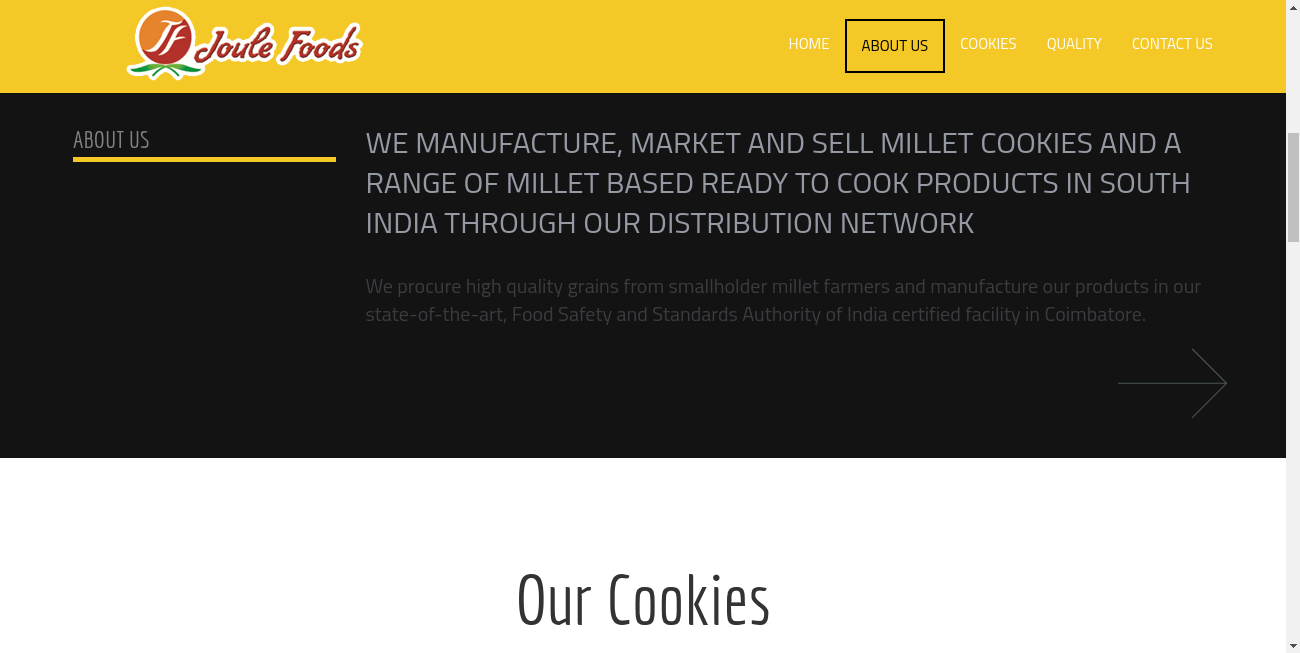
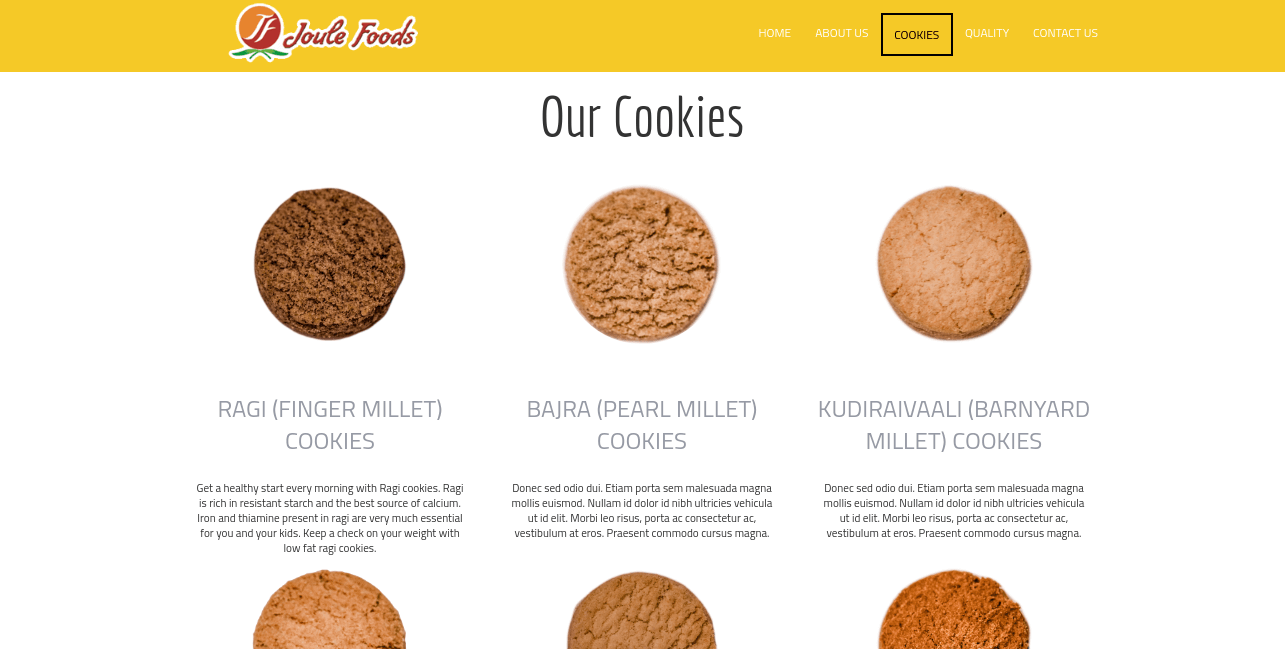
Added new images for cookie portfolio.

diff --git a/static/templates/index.html b/static/templates/index.html
@@ -10,9 +10,9 @@
    <header>
         <div class="container">
             <div class="intro-stats hidden-sm hidden-xs wow slideInDown">
-                <p class="stats-date">July 2017</p>
+                <p class="stats-date">Aug 2017</p>
                 <p class="stats-price">$40/hr</p>
-                <p class="more-stats">Enter Random Stats</p>
+                <p class="more-stats">Limited Edition Offer</p>
             </div>
             <div class="intro-text">
                 <div class="intro-lead-in wow bounceInDown" data-wow-delay="2.5s" data-wow-duration="2s">
@@ -63,7 +63,7 @@
                                         <i class="devicon-html5-plain-wordmark"></i>
                                         <i class="devicon-css3-plain-wordmark"></i>
                                         <i class="devicon-jquery-plain-wordmark"></i>
-                                        <i class="devicon-backbonejs-plain-wordmark"></i>
+                                        <i class="devicon-backiconbonejs-plain-wordmark"></i>
                                     </p>
                                     <p>
                                         <i class="devicon-python-plain-wordmark"></i>
@@ -111,7 +111,7 @@
                         </div>
 
                          <div class="team-bottom col-sm-12 col-md-12">
-                           <div class="stat-card team-stat-card col-sm-5 col-md-5 wow flipInX" data-wow-duration="2s">
+                           <div class="stat-card stat-card-green team-stat-card col-sm-5 col-md-5 wow flipInX" data-wow-duration="2s">
                                 <div class="stat-title">
                                     Vital Stats
                                 </div>
@@ -328,7 +328,7 @@
     </section>
 
     <!-- Process Section -->
-    <section id="packages" class="jagged">
+    <!-- <section id="packages" class="jagged">
         <div class="container-fluid">
             <div class="row">
                 <div class="col-sm-12 col-md-12 box-full">
@@ -502,6 +502,6 @@
 
             </div>
         </div>
-    </section>
+    </section> -->
 
 {% endblock %}

diff --git a/static/templates/portfolio.html b/static/templates/portfolio.html
@@ -546,7 +546,7 @@
           </div>
 
           <div class="caption">
-            <p>Single page scrollable landing page</p>
+            <p>Types of cookies with images photographed and edited for the site.</p>
           </div>
 
         </div>
@@ -568,7 +568,7 @@
           </div>
 
           <div class="caption">
-            <p>Types of cookies with images photographed and edited for the site.</p>
+            <p>About Page describing the company, it's vision and mission.</p>
           </div>
 
         </div>
@@ -579,30 +579,7 @@
 
               class="device-frame device-browser">
 
-            <!-- <div class="media image" style="background-image: url(media/portfolio-freeth-3.png);"></div> -->
             <img src="static/images/portfolio/portfolio-jf-3.png">
-
-
-            </div>
-            <svg class="loading-spinner" width="64" height="64" viewbox="0 0 64 64">
-              <circle cx="32" cy="32" r="20" fill="none" stroke-width="6" stroke-miterlimit="10" stroke="#ccc" />
-            </svg>
-          </div>
-
-          <div class="caption">
-            <p>Quality Page</p>
-          </div>
-
-        </div>
-
-        <div class="page   image" style="background-color: #f5f5f5 ">
-          <div class="media loader-parent" >
-            <div
-
-              class="device-frame device-browser">
-
-            <!-- <div class="media image" style="background-image: url(media/portfolio-freeth-4.png);"></div> -->
-            <img src="static/images/portfolio/portfolio-jf-4.png">
 
 
             </div>

diff --git a/static/templates/base.html b/static/templates/base.html
@@ -51,9 +51,9 @@
                     <li>
                         <a class="page-scroll" href="#process">Process</a>
                     </li>
-                    <li>
+                    <!-- <li>
                         <a class="page-scroll" href="#packages">Packages</a>
-                    </li>
+                    </li> -->
                     <li>
                         <a class="page-scroll" href="#contact">Contact</a>
                     </li>
